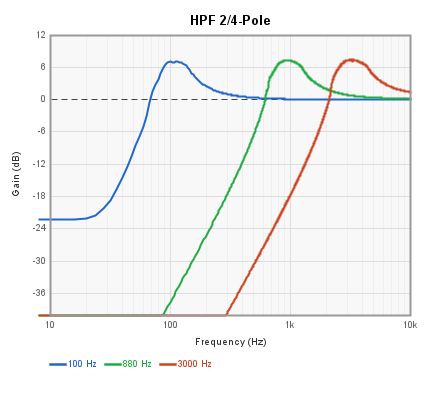
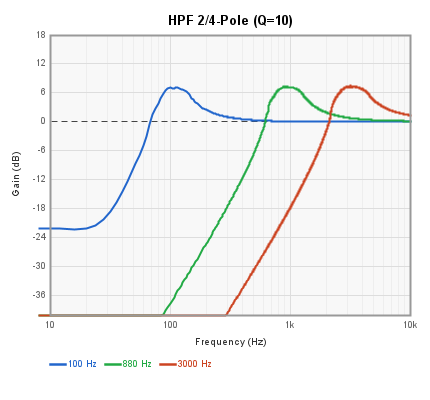
Improve filter doc: Hz ranges, EQ gain chart, Bassman link, comb note
- LPF/HPF 2/4-Pole plots: yMax to 18 dB, show Q=10 in title
- 1-Band EQ: show frequency range 20-3200 Hz, add EQ Level vs gain
  chart at 1 kHz (also applies to 6-Band EQ)
- Add sample rate scaling note at top (32768 Hz base, how to scale
  for 44.1 kHz and 48 kHz)
- Add link to Yeh & Smith DAFx-06 paper in Bassman section
- Add DC gain warning and HPF recommendation for Comb Filter

diff --git a/src/test/java/com/holycityaudio/SpinCAD/FilterDocTest.java b/src/test/java/com/holycityaudio/SpinCAD/FilterDocTest.java
@@ -67,6 +67,7 @@ public class FilterDocTest {
         plotShelvingLP(docsDir, chirpWav);
         plotShelvingHP(docsDir, chirpWav);
         plot1BandEQ(docsDir, chirpWav);
+        plot1BandEQ_Gain(docsDir, chirpWav);
         plot6BandEQ(docsDir, chirpWav);
         plotComb(docsDir, chirpWav);
         plotResonator(docsDir, chirpWav);
@@ -347,7 +348,7 @@ public class FilterDocTest {
         }
         if (freqAxis == null) return;
         writeFilterPlot(new File(docsDir, "filter-lpf4p.png"),
-            "LPF 2/4-Pole", freqAxis, curves, labels, -40, 12,
+            "LPF 2/4-Pole (Q=10)", freqAxis, curves, labels, -40, 18,
             DISPLAY_F_MIN, DISPLAY_F_MAX, new double[]{0});
         System.out.println("  wrote filter-lpf4p.png");
     }
@@ -372,7 +373,7 @@ public class FilterDocTest {
         }
         if (freqAxis == null) return;
         writeFilterPlot(new File(docsDir, "filter-hpf2p.png"),
-            "HPF 2/4-Pole", freqAxis, curves, labels, -40, 12,
+            "HPF 2/4-Pole (Q=10)", freqAxis, curves, labels, -40, 18,
             DISPLAY_F_MIN, DISPLAY_F_MAX, new double[]{0});
         System.out.println("  wrote filter-hpf2p.png");
     }
@@ -656,6 +657,127 @@ public class FilterDocTest {
             "Bassman '59 — Treble Sweep", freqAxis, curves, labels, -40, 6,
             DISPLAY_F_MIN, DISPLAY_F_MAX, new double[]{0});
         System.out.println("  wrote filter-bassman-treble.png");
+    }
+
+    // === 1-Band EQ: EQ Level vs Gain at 1 kHz ===
+    private void plot1BandEQ_Gain(File docsDir, File chirpWav) throws Exception {
+        int numPoints = 21;
+        double[] eqLevels = new double[numPoints];
+        double[] gainDb = new double[numPoints];
+        int bin1k = (int) Math.round(1000.0 * FFT_SIZE / SAMPLE_RATE);
+
+        for (int i = 0; i < numPoints; i++) {
+            eqLevels[i] = -1.0 + i * (2.0 / (numPoints - 1));
+            OneBandEQCADBlock block = new OneBandEQCADBlock(100, 100);
+            block.setFreq(1000);
+            block.setqLevel(1.2);
+            block.setEqLevel(eqLevels[i]);
+            short[] stereo = simulate(block, chirpWav, null, "Audio Output 1", null, tempDir);
+            if (stereo == null) { gainDb[i] = 0; continue; }
+            double[] resp = computeFrequencyResponse(chirpWav, stereo);
+            gainDb[i] = resp[bin1k];
+        }
+
+        // Draw a simple linear XY chart
+        int PLOT_W = 360, PLOT_H = 280;
+        int PAD_L = 50, PAD_R = 20, PAD_T = 35, PAD_B = 60;
+        int totalW = PAD_L + PLOT_W + PAD_R;
+        int totalH = PAD_T + PLOT_H + PAD_B;
+        BufferedImage img = new BufferedImage(totalW, totalH, BufferedImage.TYPE_INT_ARGB);
+        Graphics2D g = createGraphics(img, totalW, totalH);
+        int px = PAD_L, py = PAD_T;
+
+        double xMin = -1.0, xMax = 1.0;
+        double yMin = -12, yMax = 12;
+        double yRange = yMax - yMin;
+
+        // Background and border
+        g.setColor(new Color(0xf8, 0xf8, 0xf8));
+        g.fillRect(px, py, PLOT_W, PLOT_H);
+        g.setColor(new Color(0xcc, 0xcc, 0xcc));
+        g.drawRect(px, py, PLOT_W, PLOT_H);
+
+        // Title
+        g.setFont(new Font("Arial", Font.BOLD, 13));
+        g.setColor(Color.BLACK);
+        FontMetrics fm = g.getFontMetrics();
+        String title = "1-Band EQ: Control Value vs Gain (1 kHz)";
+        g.drawString(title, px + PLOT_W / 2 - fm.stringWidth(title) / 2, py - 10);
+
+        // X-axis grid and labels at -1.0, -0.5, 0, 0.5, 1.0
+        g.setFont(new Font("Arial", Font.PLAIN, 9));
+        Stroke normalStroke = g.getStroke();
+        Stroke dashedStroke = new BasicStroke(1.0f, BasicStroke.CAP_BUTT,
+            BasicStroke.JOIN_MITER, 10, new float[]{6, 4}, 0);
+        double[] xTicks = {-1.0, -0.5, 0, 0.5, 1.0};
+        for (double tick : xTicks) {
+            double fx = (tick - xMin) / (xMax - xMin);
+            int gx = px + (int)(fx * PLOT_W);
+            if (tick == 0) {
+                g.setStroke(dashedStroke);
+                g.setColor(new Color(0x44, 0x44, 0x44));
+                g.drawLine(gx, py, gx, py + PLOT_H);
+                g.setStroke(normalStroke);
+            } else {
+                g.setColor(new Color(0xdd, 0xdd, 0xdd));
+                g.drawLine(gx, py, gx, py + PLOT_H);
+            }
+            g.setColor(new Color(0x66, 0x66, 0x66));
+            String label = String.format("%.1f", tick);
+            fm = g.getFontMetrics();
+            g.drawString(label, gx - fm.stringWidth(label) / 2, py + PLOT_H + 13);
+        }
+
+        // Y-axis grid at 3 dB steps
+        for (int db = (int) yMin; db <= (int) yMax; db += 3) {
+            double frac = (db - yMin) / yRange;
+            int gy = py + (int)((1.0 - frac) * PLOT_H);
+            if (db == 0) {
+                g.setStroke(dashedStroke);
+                g.setColor(new Color(0x44, 0x44, 0x44));
+                g.drawLine(px + 1, gy, px + PLOT_W - 1, gy);
+                g.setStroke(normalStroke);
+            } else {
+                g.setColor(new Color(0xdd, 0xdd, 0xdd));
+                g.drawLine(px, gy, px + PLOT_W, gy);
+            }
+            g.setColor(new Color(0x66, 0x66, 0x66));
+            String label = String.valueOf(db);
+            fm = g.getFontMetrics();
+            g.drawString(label, px - 4 - fm.stringWidth(label), gy + 3);
+        }
+
+        // Axis labels
+        g.setFont(new Font("Arial", Font.PLAIN, 10));
+        fm = g.getFontMetrics();
+        String xLabel = "EQ Level";
+        g.setColor(Color.BLACK);
+        g.drawString(xLabel, px + PLOT_W / 2 - fm.stringWidth(xLabel) / 2, py + PLOT_H + 30);
+
+        AffineTransform orig = g.getTransform();
+        g.rotate(-Math.PI / 2);
+        String yLabel = "Gain (dB)";
+        g.drawString(yLabel, -(py + PLOT_H / 2 + fm.stringWidth(yLabel) / 2), 14);
+        g.setTransform(orig);
+
+        // Plot curve
+        g.setColor(Color.decode(COLORS[0]));
+        g.setStroke(new BasicStroke(2.0f));
+        int[] xPts = new int[numPoints];
+        int[] yPts = new int[numPoints];
+        for (int i = 0; i < numPoints; i++) {
+            double fx = (eqLevels[i] - xMin) / (xMax - xMin);
+            double fy = (gainDb[i] - yMin) / yRange;
+            fy = Math.max(0, Math.min(1, fy));
+            xPts[i] = px + (int)(fx * PLOT_W);
+            yPts[i] = py + (int)((1.0 - fy) * PLOT_H);
+        }
+        g.drawPolyline(xPts, yPts, numPoints);
+
+        g.dispose();
+        File out = new File(docsDir, "filter-1bandeq-gain.png");
+        ImageIO.write(img, "PNG", out);
+        System.out.println("  wrote filter-1bandeq-gain.png");
     }
 
     // ==================== Plot helper with reference lines ====================

diff --git a/docs/filter-blocks.md b/docs/filter-blocks.md
@@ -3,6 +3,12 @@
 These blocks implement various filter topologies for the FV-1: lowpass, highpass,
 bandpass, notch, shelving EQ, parametric EQ, comb filters, and resonators.
 
+> **Sample rate:** All frequency ranges and default values below assume the
+> FV-1's native sample rate of 32,768 Hz. At other sample rates, frequency
+> parameters scale proportionally: multiply by f<sub>s</sub>/32768. For example,
+> a 1000 Hz cutoff corresponds to approximately 1346 Hz at 44.1 kHz
+> (x 1.346) and 1465 Hz at 48 kHz (x 1.465).
+
 ---
 
 ## 1-Band EQ
@@ -20,11 +26,17 @@ a resonant peak from the input signal.
 
 | Parameter | Range | Default | Description |
 |-----------|-------|---------|-------------|
-| Frequency | Hz | 80 | Center frequency of the EQ band |
+| Frequency | 20-3200 Hz | 80 | Center frequency of the EQ band |
 | Q | 0.5-10 | 1.2 | Bandwidth (higher = narrower) |
 | EQ Level | -1.0 to 1.0 | 0 | Boost/cut amount |
 
 ![1-Band EQ response showing cut, flat, and boost](images/filter-1bandeq.png)
+
+The chart below shows the relationship between the EQ Level control value
+and the resulting gain at the center frequency (measured at 1 kHz, Q=1.2).
+This mapping also applies to each band of the 6-Band EQ.
+
+![1-Band EQ control value to gain mapping at 1 kHz](images/filter-1bandeq-gain.png)
 
 ---
 
@@ -58,7 +70,7 @@ and a global Q parameter sets the bandwidth of all bands.
 ## Bassman '59 EQ
 
 An exact digital model of the Fender '59 Bassman tone stack, based on the
-Yeh & Smith symbolic circuit analysis (DAFx-06). The three controls (Bass,
+[Yeh & Smith symbolic circuit analysis (DAFx-06)](https://ccrma.stanford.edu/~dtyeh/papers/yeh06_dafx.pdf). The three controls (Bass,
 Mid, Treble) interact non-orthogonally, just like the real circuit: changing
 one control affects the other bands. The filter is a 3rd-order IIR implemented
 as three parallel 1st-order sections via partial fraction expansion.
@@ -115,6 +127,10 @@ in the feedback path.
 | Damping | 0.0-1.0 | 0.5 | Lowpass damping in feedback path |
 
 ![Comb filter response at three delay length settings](images/filter-comb.png)
+
+> **DC gain:** This comb filter has significant gain at DC and very low
+> frequencies. A highpass filter in series (e.g. HPF 1-Pole) is recommended
+> to remove the DC offset from the output.
 
 ---
 
